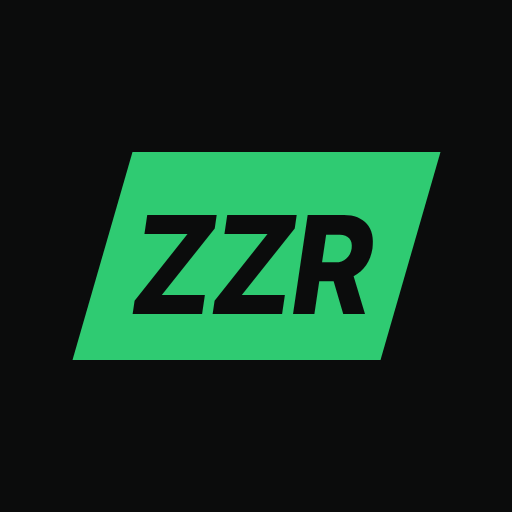
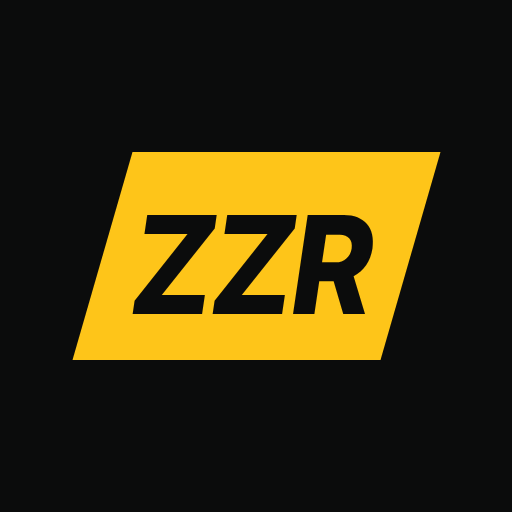
Icônes du site (onglet, écran d'accueil, aperçus de lien) en jaune
Claude-Session: https://claude.ai/code/session_01SoQ63VpB169CTM6V7WQ1RX

Changed region(s): [[0.125, 0.2812, 0.875, 0.7188]]

diff --git a/index.html b/index.html
@@ -8,8 +8,8 @@
 <meta name="theme-color" content="#0A0A0A">
 <link rel="canonical" href="https://zzrdepannage.com/">
 <link rel="manifest" href="manifest.webmanifest">
-<link rel="icon" type="image/png" sizes="192x192" href="icon-192.png">
-<link rel="apple-touch-icon" href="apple-touch-icon.png">
+<link rel="icon" type="image/png" sizes="192x192" href="icon-192.png?v=2">
+<link rel="apple-touch-icon" href="apple-touch-icon.png?v=2">
 <meta name="apple-mobile-web-app-capable" content="yes">
 <meta name="apple-mobile-web-app-title" content="ZZR Dépannage">
 <meta property="og:type" content="website">
